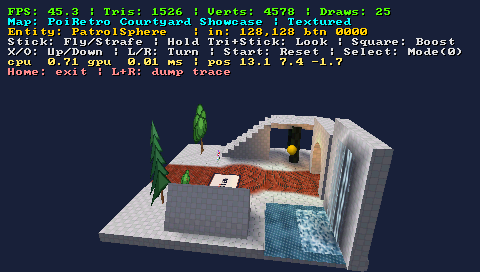
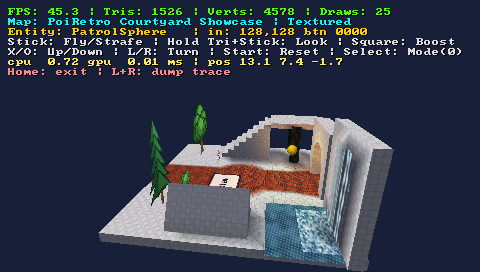
fix(scroll): the viewer subtracted the offset, and the base travelled backwards
Three direction errors from the first side-by-side pass on both renderers:

- `run_viewer.sh` climbed its wall while the PSP fell. The viewer computed
  `uv1_offset = base - speed * t`; the GE's register advances WITH the speed, so
  the same file value animated the two renderers in opposite directions. The
  viewer now advances it too. The derivation that produced the wrong sign ("an
  offset added to a coordinate slides the sampled image the other way") reads
  fine and is invisible in a static frame, so the spec now states the
  implementation as a RULE verified on both renderers rather than something to
  reason out.
- The pool and foam scrolled away from the wall on the PSP when they should
  spread toward the viewer — both speeds are negative now, like the falling
  sheet. That leaves one rule for the whole composition: negative V travels
  down a wall and away from a wall on the floor; the spray billboard is the one
  exception, because its V runs down its own face.

Verified: three-frame montages of the viewer's sheet (falls, with the wall grid
static as the control) and of the emulator's pool seen from above (the churn now
spreads toward the camera; the same-scene-time frames differ from before the
flip). Device captures cannot show the pool's direction from the spawn view at
all — its V axis points into the screen, so the motion is sub-pixel there.

Version 0.9.65, so the overlay title identifies this build on the device.

Changed region(s): [[0.5312, 0.7353, 0.7188, 0.9706], [0.1562, 0.2059, 0.1875, 0.2353]]

diff --git a/SPEC_RETRO_FORMAT.md b/SPEC_RETRO_FORMAT.md
@@ -212,30 +212,24 @@ part of the format, not of any one engine:
 2. **The texture MUST wrap** (`GL_REPEAT` / `GU_REPEAT`), since the pattern
    legitimately samples outside `[0,1]` once it has moved.
 
-**Implementation note — the offset register is inverted.** On the Sony GE the
-natural implementation is `sceGuTexOffset(u, v)`, which is documented as an
-offset *added* to the texture coordinate. Measured on hardware, an increasing
-offset slides the pattern toward **+V**, i.e. the opposite of what "add to the
-coordinate" suggests. Keep the file's meaning (pattern velocity) and negate at
-the point of use if the API behaves that way, rather than reversing the field
-— a sign error here is invisible in any static frame and obvious the moment
-something moves.
+**Implementation rule — advance the offset with the speed.** Every renderer
+here realises the field the same way: each frame, `offset += speed * dt`, and the
+resulting offset is applied as that renderer's texture-coordinate offset for the
+mesh (on the GE, `sceGuTexOffset`). With that:
 
-### `PbmVertex` (24 bytes, 4-byte aligned)
+- `speed_v < 0` sends a waterfall **down** a wall,
+- `speed_v < 0` sends churn on the floor **away from the wall** (toward `+Z`),
 
-| Offset | Type | Field Name | Description |
-|---|---|---|---|
-| `0x00` | `float` | `u` | Horizontal texture coordinate ($U$). Normalized $0.0 \dots 1.0$, or atlas sub-slot. |
-| `0x04` | `float` | `v` | Vertical texture coordinate ($V$). Normalized $0.0 \dots 1.0$, or atlas sub-slot. |
-| `0x08` | `uint32_t` | `color` | Packed 32-bit vertex color: `0xAABBGGRR` (Direct hardware Gouraud / Ambient Occlusion lighting). |
-| `0x0C` | `float` | `x` | World-space X coordinate in meters. |
-| `0x10` | `float` | `y` | World-space Y coordinate in meters. |
-| `0x14` | `float` | `z` | World-space Z coordinate in meters. |
+which is exactly what the showcase map demonstrates.
 
-**Hardware Format Bitmask (Sony GU)**:
-```c
-GU_TEXTURE_32BITF | GU_COLOR_8888 | GU_VERTEX_32BITF | GU_TRANSFORM_3D
-```
+A renderer that *subtracts* the offset, or negates the speed, animates
+everything backwards — the naive reading of "an offset added to the coordinate
+slides the sampled image the other way" is the trap, and it is worth stating the
+rule as "whatever the API's sign convention, both reference renderers were
+verified to produce the same picture for the same value". It is invisible in any
+static frame and looks entirely plausible in motion at a glance, so the
+direction MUST be verified by measurement (§9, step 6) rather than reasoned
+about.
 
 ---
 
@@ -501,13 +495,16 @@ In the Material & UV dock, **Scrolling Texture**:
 | Apply Scroll | writes the speed onto the selected faces' material |
 | Clear | removes it (the surface becomes static again) |
 
-The sign is a direction, and V runs *up* on a wall (and toward `+Z` on a
-floor), so:
+The sign is a direction, and with the reference implementation (§5.1) the rule
+that matters for this scene is simple — **negative V travels down a wall and
+away from a wall on the floor**:
 
 - a sheet falling down a wall: **Speed V negative** (e.g. `-0.75`),
 - a second, faster sheet in front of it: `-1.15` (the parallax reads as depth),
-- churn spreading away from the base of the fall: **Speed V positive**,
-- rising mist on a billboard: **positive** (a sprite's V runs down its own face).
+- churn spreading away from the base of the fall, and a pool drifting with it:
+  **also negative** (e.g. `-0.30`),
+- rising mist on a billboard: positive, because a sprite's V runs down its own
+  face — the one place the sign flips.
 
 Applying a speed duplicates the material when other faces share it, because the
 animation is a property of the *material* — that is the unit the exporters split

diff --git a/CLAUDE.md b/CLAUDE.md
@@ -793,6 +793,31 @@ drag, and the debug gate:
   format strings are never built. Tests that assert on INFO entries set
   PBLogger.verbose = true themselves.
 
+v0.9.65 round complete ✓ — scroll DIRECTION fixes from the first device/viewer
+pass (the human watched both renderers side by side):
+- THE GODOT VIEWER SUBTRACTED THE OFFSET and the PSP advanced it, so for the
+  same file value the two renderers animated in OPPOSITE directions: the human
+  saw the waterfall climb its wall in `run_viewer.sh` while the PSP had it
+  falling. The viewer now advances the offset with the speed, the same form the
+  GE's register uses (`uv1_offset = base + speed * t`). The general lesson is
+  written into the spec §5.1 as an implementation RULE ("advance the offset with
+  the speed") rather than a derivation: the naive reasoning about what an offset
+  does to a sampled image is exactly what produced the bug, and it is invisible
+  in any static frame.
+- THE BASE (pool + foam) SPED THE WRONG WAY ON THE PSP — both now negative
+  (`pool -0.03`, `foam -0.30`), matching the viewer's toward-the-viewer drift
+  the human called correct. With the sheet's `-0.75` this leaves ONE simple
+  rule for the whole composition: negative V falls down a wall and travels away
+  from a wall on the floor; the only positive value left is the spray
+  billboard, whose own V runs down its face.
+- Verification note worth keeping: on the device's spawn view the pool scrolls
+  almost straight INTO the screen (its V axis points at the camera), so its
+  motion is sub-pixel there and a screen-space correlation over device captures
+  cannot see it. The emulator's orbit camera looks down at the pool and shows
+  the flip cleanly (same-camera before/after montage). Correlating periodic
+  water textures is unreliable in general — the three-frame montage judged by
+  eye is the method that actually worked, for the human and for this round.
+
 v0.9.64 round complete ✓ — scrolling textures end to end (PBM 3.0), soft
 alpha through the whole pipeline, and the plane reshaped into a
 surface-decoration tool:
